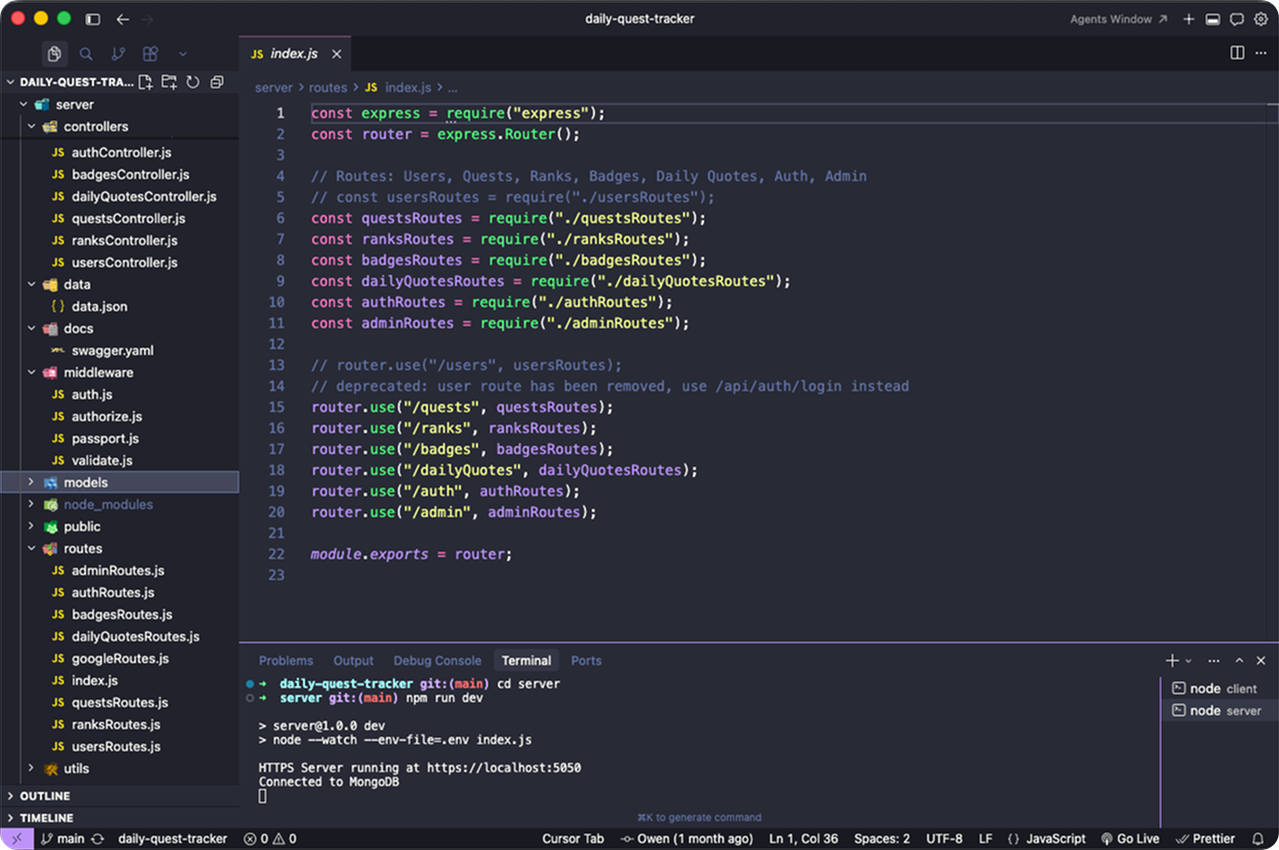
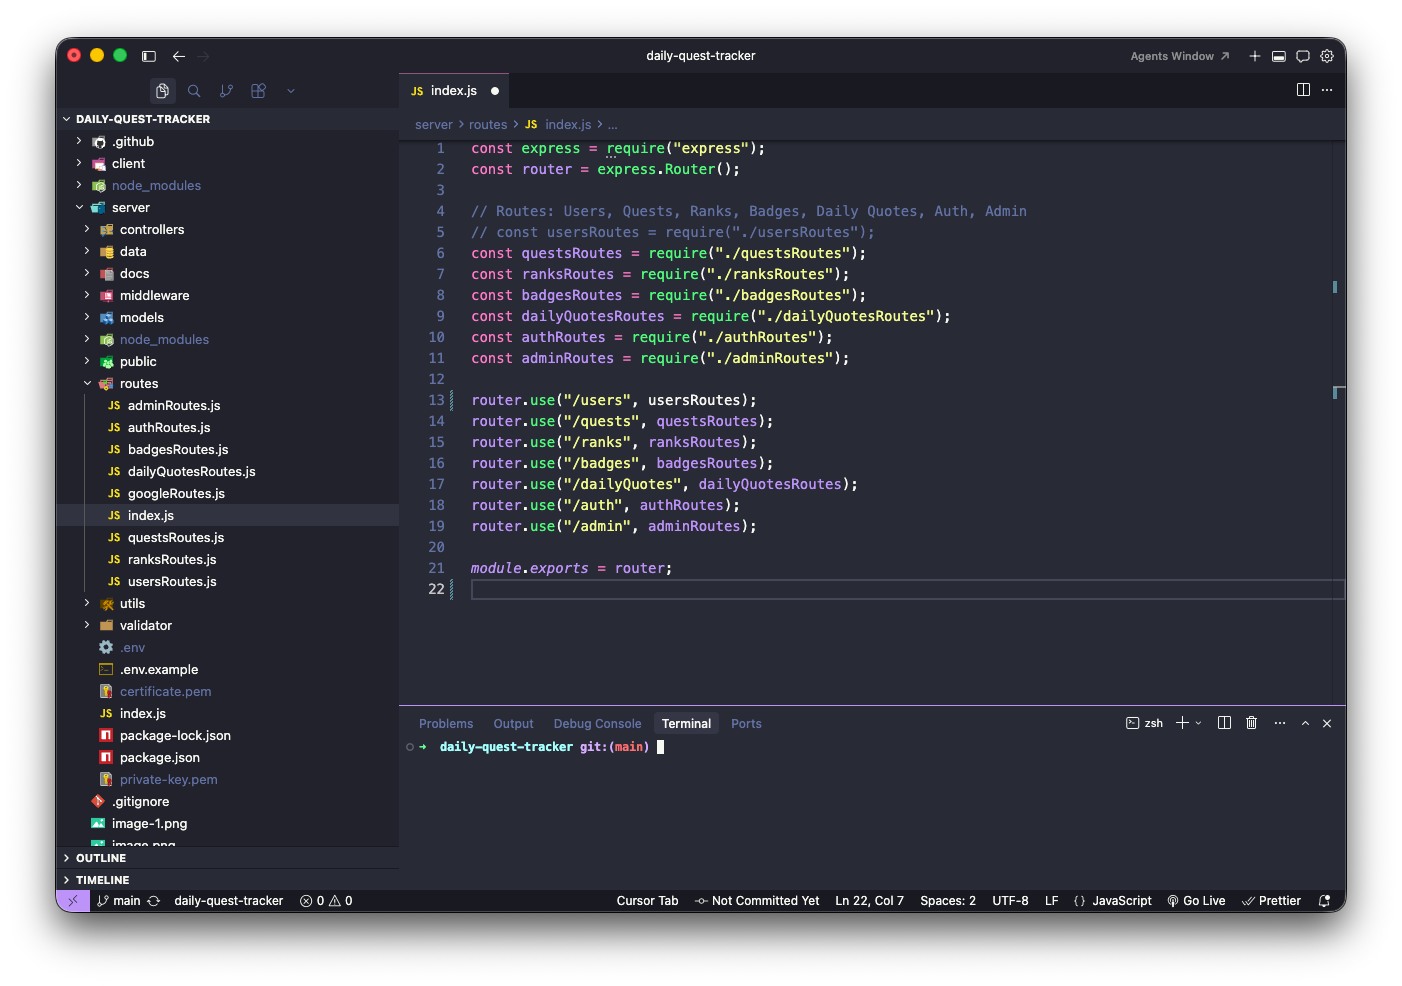
change the pictures on backend page and adjust text

diff --git a/src/components/Caresoul.tsx b/src/components/Caresoul.tsx
@@ -16,7 +16,7 @@ import p1 from "../assets/backend/1_validator.png";
 import p2 from "../assets/backend/2_jwt.png";
 import p3 from "../assets/backend/3_rbac.png";
 import p4 from "../assets/backend/4_oath2.png";
-import p5 from "../assets/backend/5_mvc.png";
+import p5 from "../assets/backend/rest.png";
 
 const images = [
   { id: 1, name: "Express-Validator", src: p1.src, alt: "Image 1" },
